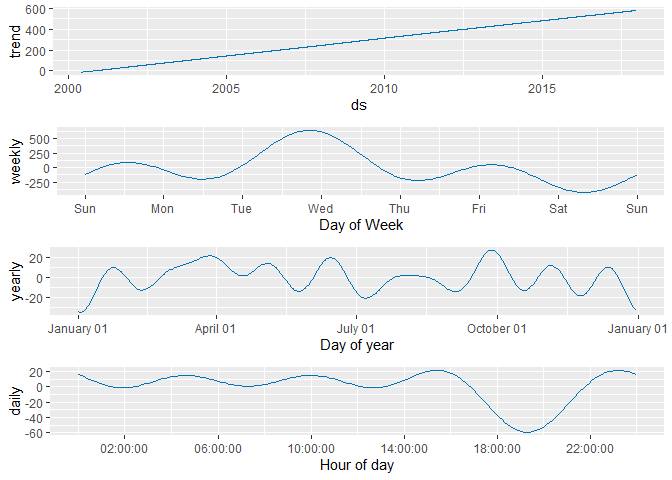
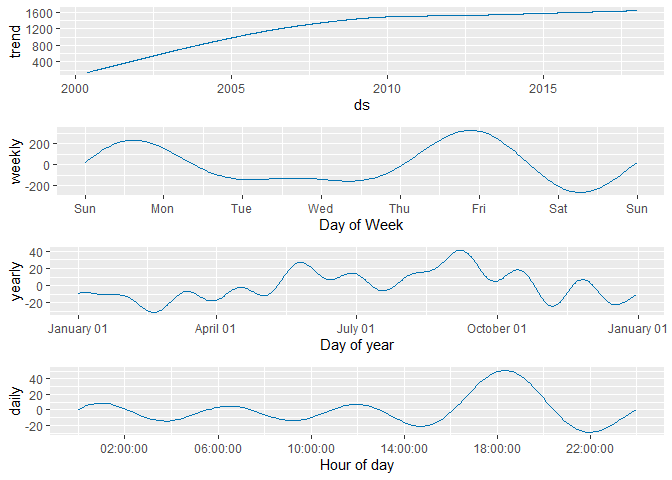
update to the logic, the graphs and other aspects

diff --git a/Assignments/Group Project/Group-Assignment.md b/Assignments/Group Project/Group-Assignment.md
@@ -71,6 +71,7 @@ library(ggplot2)
 #install.packages('webr')
 #install.packages('prophet')
 #install.packages('survival')
+#install.packages('ggord')
 
 #archive
 #library(tsibble)
@@ -772,7 +773,7 @@ Pred_Data <- T_Data %>%
   group_by(Date_time) %>% 
   summarise(
     ds = as.POSIXct(min(Date_time)), # I have repeatedly attempted to change this assumption but have been unable to
-    y=n(),
+    y=mean(Application_time),
     )
 #Check for duplicates. If true then there are no duplicates
 length(unique(Pred_Data$ds)) == nrow(Pred_Data)
@@ -801,13 +802,13 @@ forecast <- predict(m, future)
 tail(forecast[c('ds', 'yhat', 'yhat_lower', 'yhat_upper')])
 ```
 
-    ##                       ds      yhat yhat_lower yhat_upper
-    ## 5821 2017-12-26 19:00:00 1136.5869  785.78012  1467.6499
-    ## 5822 2017-12-27 19:00:00  443.6840   66.88709   782.1364
-    ## 5823 2017-12-28 19:00:00  455.3918  108.27581   801.9341
-    ## 5824 2017-12-29 19:00:00  274.3422  -77.78597   653.2509
-    ## 5825 2017-12-30 19:00:00  225.2376 -114.22725   584.5684
-    ## 5826 2017-12-31 19:00:00  533.0541  176.14621   866.8047
+    ##                       ds     yhat yhat_lower yhat_upper
+    ## 5821 2017-12-26 19:00:00 1537.969   1039.376   2006.257
+    ## 5822 2017-12-27 19:00:00 1575.114   1039.623   2054.390
+    ## 5823 2017-12-28 19:00:00 1991.977   1498.965   2482.493
+    ## 5824 2017-12-29 19:00:00 1572.250   1068.335   2118.777
+    ## 5825 2017-12-30 19:00:00 1574.136   1089.128   2086.413
+    ## 5826 2017-12-31 19:00:00 1888.422   1383.422   2366.724
 
 ``` r
 plot(m, forecast)
@@ -836,15 +837,14 @@ ggplot(forecast, aes(ds, yhat)) +
 ```
 
 ![](Group-Assignment_files/figure-gfm/prophet%20prediction%20plot-1.png)<!-- -->
-Let’s try breaking these out a bit, since there seems to be 3 different
-trends
+Let’s try breaking these out a bit into weekdays.
 
 ``` r
 Pred_Data$DOW=wday(Pred_Data$ds,week_start = 1, label=TRUE)
 
 # Plot the prophet forecast with the test data points
 ggplot(forecast, aes(ds, yhat)) +
-  geom_point(data = Pred_Data, aes(ds, y, color = DOW), size = 1,alpha=0.4) +
+  geom_point(data = Pred_Data, aes(ds, y, color = DOW), size = 1.5,alpha=0.4) +
   scale_color_brewer(palette = "Set1")+
   xlab("Date") +
   ylab("y") +
@@ -852,31 +852,61 @@ ggplot(forecast, aes(ds, yhat)) +
 ```
 
 ![](Group-Assignment_files/figure-gfm/prophet%20prediction%20plot2-1.png)<!-- -->
+This is shows that as time goes on the average patent application length
+is longer if the status update is on a Sunday or Thursday but farily
+consistent otherwise
 
-Let’s try breaking these out a bit, since there seems to be 3 different
-trends
+Let’s try breaking these out a bit, first by gender since there seems to
+be 3 different trends
 
 ``` r
-Pred_Data_low=App_data <- Pred_Data %>% 
-  filter(y<365)
-Pred_Data_med=App_data <- Pred_Data %>% 
-  filter(y>365 & y<800)
-
-Pred_Data_high=App_data <- Pred_Data %>% 
-  filter(y>800)
-
-# Plot the prophet forecast with the test data points
-ggplot(forecast, aes(ds, yhat)) +
-  geom_point(data = Pred_Data_low, aes(ds, y, color = "low"), size = 2,alpha=0.2) +
-  geom_point(data = Pred_Data_med, aes(ds, y, color = "med"), size = 2,alpha=0.2) +
-  geom_point(data = Pred_Data_high, aes(ds, y, color = "high"), size = 2,alpha=0.2) +
-  scale_color_manual(values = c("blue", "red", "black"), labels = c("high", "low","med"))+
-  xlab("Date") +
-  ylab("y") +
-  ggtitle("Forecast of length of application time")
+Pred_Data_M <- T_Data %>% 
+  group_by(Date_time,gender) %>% 
+  summarise(
+    ds = as.POSIXct(min(Date_time)),
+    y=mean(Application_time)
+    )%>% 
+  filter(gender=="male")
 ```
 
-![](Group-Assignment_files/figure-gfm/prophet%20prediction%20plot3-1.png)<!-- -->
+    ## `summarise()` has grouped output by 'Date_time'. You can override using the
+    ## `.groups` argument.
+
+``` r
+Pred_Data_F <- T_Data %>% 
+  group_by(Date_time,gender) %>% 
+  summarise(
+    ds = as.POSIXct(min(Date_time)),
+    y=mean(Application_time)
+    )%>% 
+  filter(gender=="female")
+```
+
+    ## `summarise()` has grouped output by 'Date_time'. You can override using the
+    ## `.groups` argument.
+
+``` r
+m_M<-prophet(Pred_Data_M)
+future <- make_future_dataframe(m_M, periods = 720)
+forecast_M <- predict(m_M, future)
+
+m_F<-prophet(Pred_Data_F)
+future <- make_future_dataframe(m_F, periods = 720)
+forecast_F <- predict(m_F, future)
+```
+
+``` r
+ggplot(forecast, aes(ds, yhat)) +
+  geom_ribbon(data = forecast_F,aes(ymin=yhat_lower,ymax=yhat_upper), alpha=0.4, color = "lightpink")+
+  geom_ribbon(data = forecast_M,aes(ymin=yhat_lower,ymax=yhat_upper), alpha=0.1, color = "lightblue")+
+  geom_point(data = Pred_Data_F, aes(ds, y, color = "Female"), size = 2,alpha=.2) +
+  geom_point(data = Pred_Data_M, aes(ds, y, color = "Male"), size = 2,alpha=.2) +
+  xlab("Date") +
+  ylab("y") +
+  ggtitle("Forecast of Male vs. Femal Average Application Days")
+```
+
+![](Group-Assignment_files/figure-gfm/prophet%20prediction%20plot%205-1.png)<!-- -->
 
 ## Tree model for predictive
 
@@ -1177,6 +1207,123 @@ res
     ## -----
     ## Signif. codes:  0 '**' 0.05 '*' 0.1 ' ' 1
 
+## predictions
+
+We will make predictions based on productivity.
+
+``` r
+library(prophet)
+
+Pred_Data <- T_Data %>% 
+  group_by(Date_time) %>% 
+  summarise(
+    ds = as.POSIXct(min(Date_time)), # I have repeatedly attempted to change this assumption but have been unable to
+    y=n(),
+    )
+#Check for duplicates. If true then there are no duplicates
+length(unique(Pred_Data$ds)) == nrow(Pred_Data)
+```
+
+    ## [1] TRUE
+
+``` r
+m<-prophet(Pred_Data)
+future <- make_future_dataframe(m, periods = 365)
+tail(future)
+```
+
+    ##                       ds
+    ## 5821 2017-12-26 19:00:00
+    ## 5822 2017-12-27 19:00:00
+    ## 5823 2017-12-28 19:00:00
+    ## 5824 2017-12-29 19:00:00
+    ## 5825 2017-12-30 19:00:00
+    ## 5826 2017-12-31 19:00:00
+
+Now we can make some predictions
+
+``` r
+forecast <- predict(m, future)
+tail(forecast[c('ds', 'yhat', 'yhat_lower', 'yhat_upper')])
+```
+
+    ##                       ds      yhat yhat_lower yhat_upper
+    ## 5821 2017-12-26 19:00:00 1136.5869  790.59088  1491.7980
+    ## 5822 2017-12-27 19:00:00  443.6840   93.74479   817.7561
+    ## 5823 2017-12-28 19:00:00  455.3918   91.36617   801.7958
+    ## 5824 2017-12-29 19:00:00  274.3422  -82.07572   616.6203
+    ## 5825 2017-12-30 19:00:00  225.2376 -139.41310   568.4151
+    ## 5826 2017-12-31 19:00:00  533.0541  172.11100   907.9425
+
+``` r
+plot(m, forecast)
+```
+
+![](Group-Assignment_files/figure-gfm/prophet%20prediction-update%203-1.png)<!-- -->
+We can look at the key feautres effecting the model
+
+``` r
+prophet_plot_components(m, forecast)
+```
+
+![](Group-Assignment_files/figure-gfm/prophet%20prediction-update%204-1.png)<!-- -->
+and then visualize the predictions!
+
+``` r
+# Plot the prophet forecast with the test data points
+ggplot(forecast, aes(ds, yhat)) +
+  geom_ribbon(data = forecast,aes(ymin=yhat_lower,ymax=yhat_upper), alpha=0.1, color = "grey71")+
+  geom_point(data = Pred_Data, aes(ds, y, color = "train data"), size = 2,alpha=0.2) +
+  geom_line(aes(color = "prophet forecast",alpha=0.001)) +
+  scale_color_manual(values = c("blue", "red", "black"), labels = c("Forecast", "Test data"))+
+  xlab("Date") +
+  ylab("y") +
+  ggtitle("Forecast of length of application time")
+```
+
+![](Group-Assignment_files/figure-gfm/prophet%20prediction-update%20plot-1.png)<!-- -->
+Let’s try breaking these out a bit, since there seems to be 3 different
+trends
+
+``` r
+Pred_Data$DOW=wday(Pred_Data$ds,week_start = 1, label=TRUE)
+
+# Plot the prophet forecast with the test data points
+ggplot(forecast, aes(ds, yhat)) +
+  geom_point(data = Pred_Data, aes(ds, y, color = DOW), size = 1,alpha=0.4) +
+  scale_color_brewer(palette = "Set1")+
+  xlab("Date") +
+  ylab("y") +
+  ggtitle("Forecast of length of application time")
+```
+
+![](Group-Assignment_files/figure-gfm/prophet%20prediction-update%20plot2-1.png)<!-- -->
+
+Let’s try breaking these out a bit, since there seems to be 3 different
+trends
+
+``` r
+Pred_Data_low=App_data <- Pred_Data %>% 
+  filter(y<365)
+Pred_Data_med=App_data <- Pred_Data %>% 
+  filter(y>365 & y<800)
+
+Pred_Data_high=App_data <- Pred_Data %>% 
+  filter(y>800)
+
+# Plot the prophet forecast with the test data points
+ggplot(forecast, aes(ds, yhat)) +
+  geom_point(data = Pred_Data_low, aes(ds, y, color = "low"), size = 2,alpha=0.2) +
+  geom_point(data = Pred_Data_med, aes(ds, y, color = "med"), size = 2,alpha=0.2) +
+  geom_point(data = Pred_Data_high, aes(ds, y, color = "high"), size = 2,alpha=0.2) +
+  scale_color_manual(values = c("blue", "red", "black"), labels = c("high", "low","med"))+
+  xlab("Date") +
+  ylab("y") +
+  ggtitle("Forecast of application status updates")
+```
+
+![](Group-Assignment_files/figure-gfm/prophet%20prediction-update%20plot3-1.png)<!-- -->
+
 ## Tree model Summary
 
 ``` r
@@ -1189,10 +1336,10 @@ summary(optimal_tree)
     ##   n= 1363986 
     ## 
     ##             CP nsplit rel error    xerror        xstd
-    ## 1 2.677460e-05      0 1.0000000 1.0000012 0.001992319
-    ## 2 1.797278e-05      3 0.9999197 0.9999273 0.001991757
-    ## 3 1.166076e-05      4 0.9999017 0.9999132 0.001991759
-    ## 4 1.000000e-05      5 0.9998900 0.9999042 0.001991728
+    ## 1 2.677460e-05      0 1.0000000 1.0000017 0.001992322
+    ## 2 1.797278e-05      3 0.9999197 0.9999265 0.001991758
+    ## 3 1.166076e-05      4 0.9999017 0.9999236 0.001991778
+    ## 4 1.000000e-05      5 0.9998900 0.9999097 0.001991743
     ## 
     ## Variable importance
     ##   race gender 
